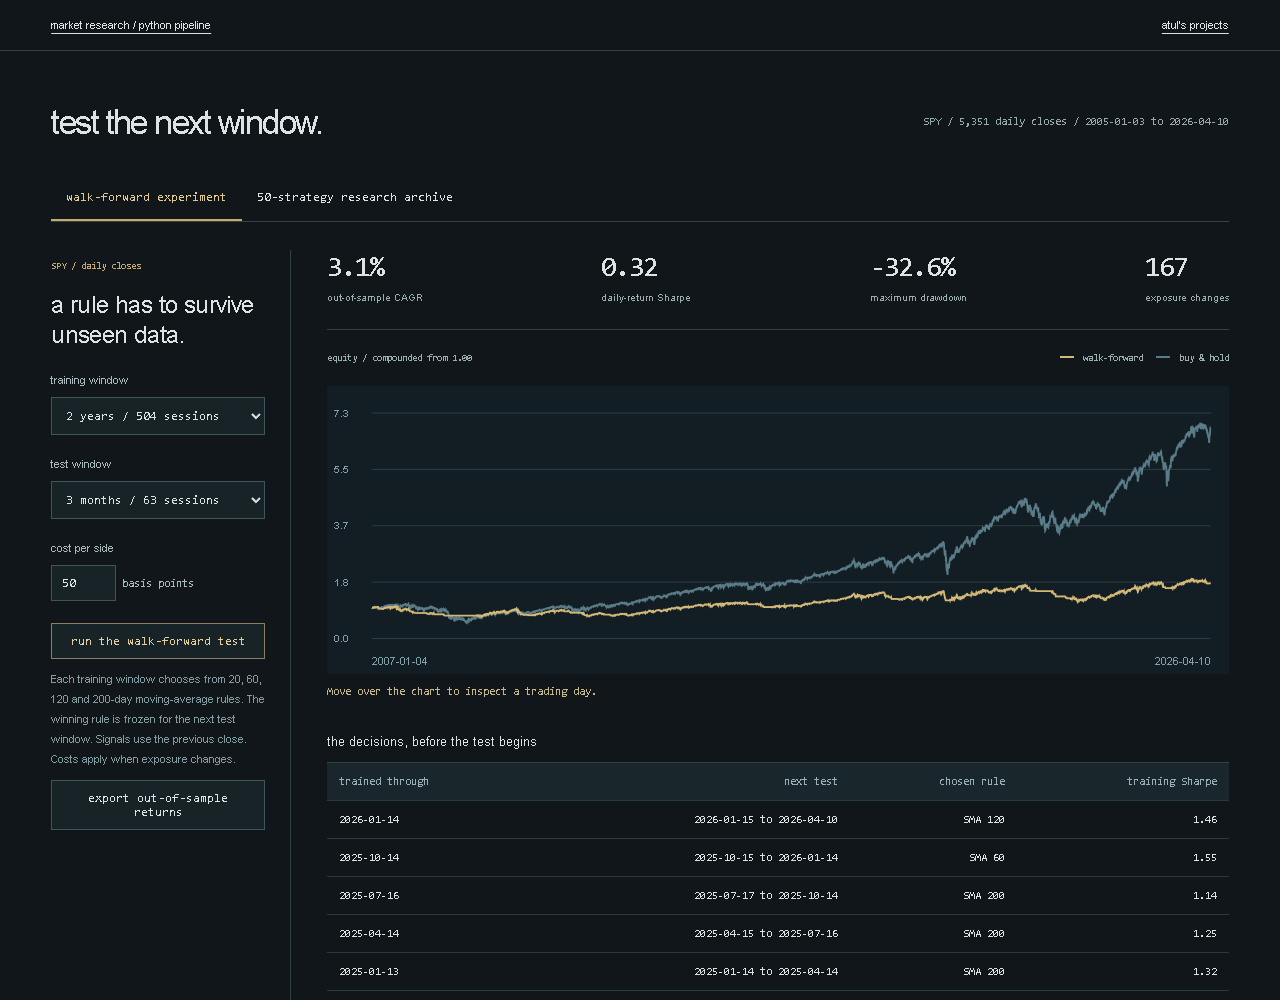
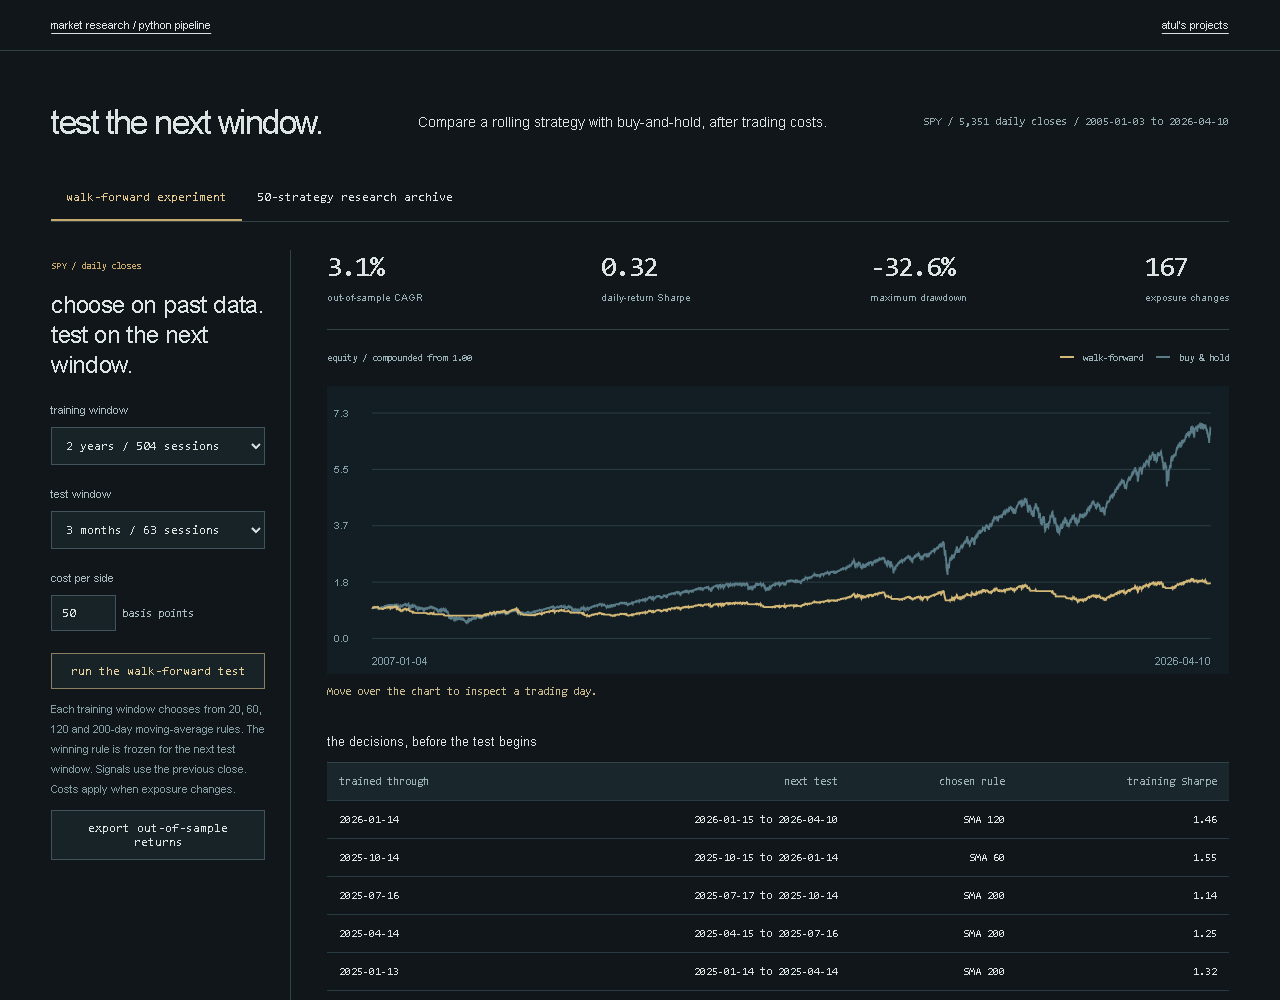
Clarify the walk-forward experiment at the point of use

Changed region(s): [[0.0312, 0.62, 0.2188, 0.837], [0.0312, 0.279, 0.1875, 0.62]]

diff --git a/examples/portfolio/index.html b/examples/portfolio/index.html
@@ -17,6 +17,10 @@
         <main>
             <div class="title">
                 <h1>test the next window.</h1>
+                <p>
+                    Compare a rolling strategy with buy-and-hold, after trading
+                    costs.
+                </p>
                 <span id="source">loading historical prices</span>
             </div>
             <nav>
@@ -30,7 +34,7 @@
                 <div class="workspace">
                     <aside>
                         <p class="eyebrow">SPY / daily closes</p>
-                        <h2>a rule has to survive unseen data.</h2>
+                        <h2>choose on past data. test on the next window.</h2>
                         <label
                             >training window<select id="training">
                                 <option value="252">
